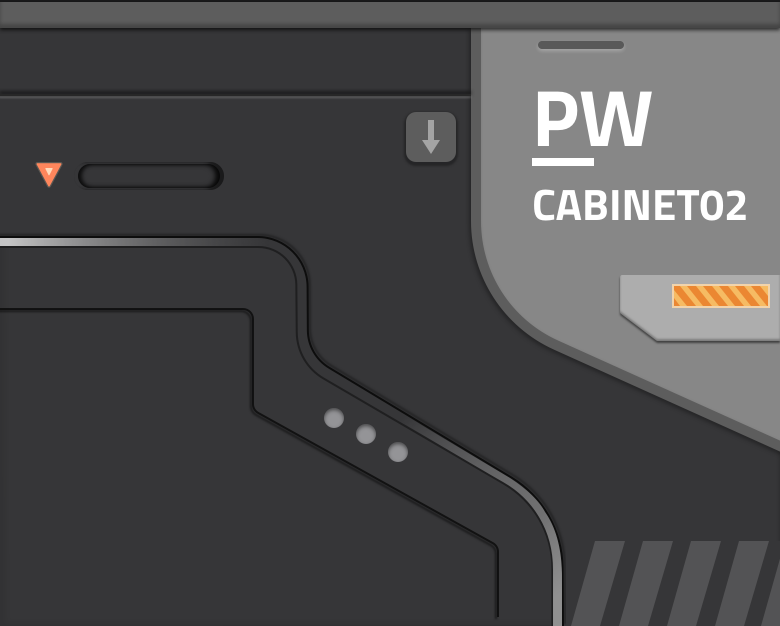
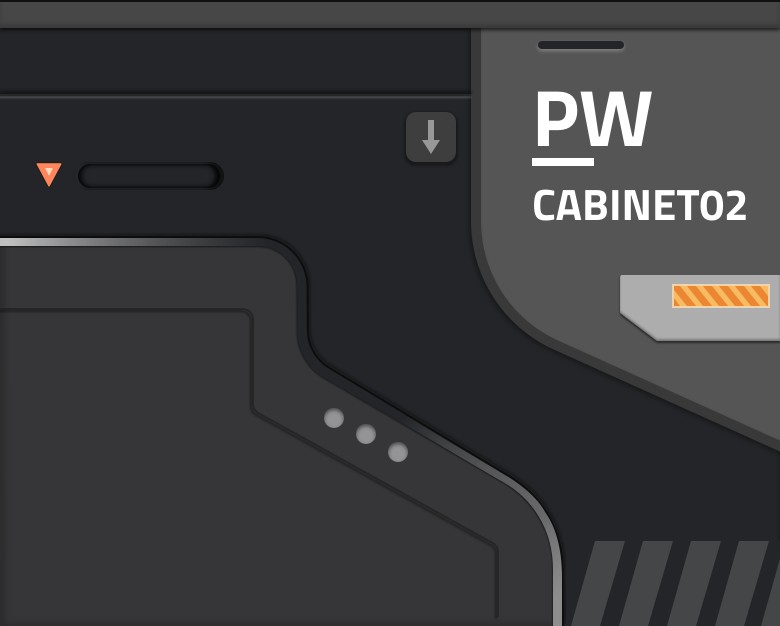
ui update

Changed region(s): [[0.5231, 0.0304, 1.0, 0.7284]]

diff --git a/lib/components/v3/bottomSheetContainer.dart b/lib/components/v3/bottomSheetContainer.dart
@@ -1,5 +1,6 @@
 import 'package:flutter/material.dart';
 import 'package:flutter_screenutil/flutter_screenutil.dart';
+import 'package:polkawallet_ui/utils/index.dart';
 
 class BottomSheetContainer extends StatelessWidget {
   BottomSheetContainer({required this.title, required this.content});
@@ -31,12 +32,14 @@ class BottomSheetContainer extends StatelessWidget {
           children: [
             Container(
               margin: EdgeInsets.only(bottom: 7.h),
-              decoration: const BoxDecoration(
-                borderRadius: BorderRadius.only(
+              decoration: BoxDecoration(
+                borderRadius: const BorderRadius.only(
                     topLeft: Radius.circular(10),
                     topRight: Radius.circular(10)),
-                color: Color(0xFFF0ECE6),
-                boxShadow: [
+                color: UI.isDarkTheme(context)
+                    ? const Color(0xFF818181)
+                    : const Color(0xFFF0ECE6),
+                boxShadow: const [
                   BoxShadow(
                     color: Color(0x33000000),
                     blurRadius: 4.0,
